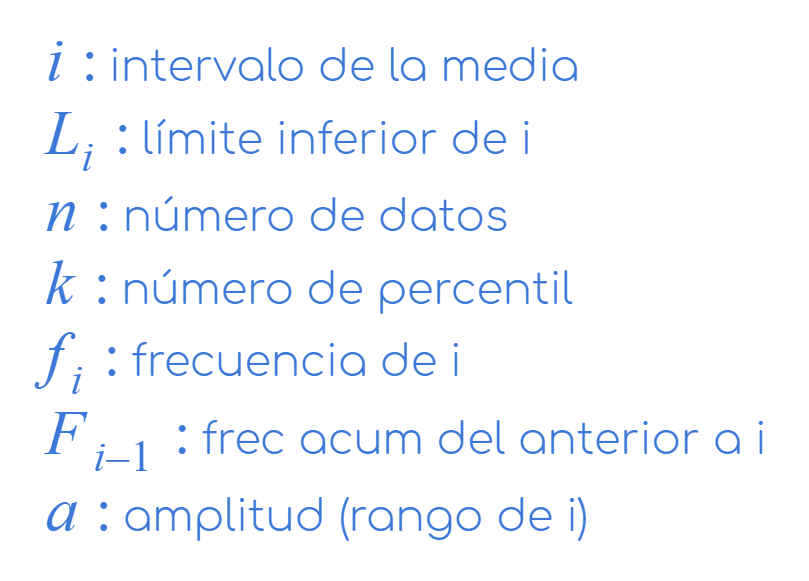
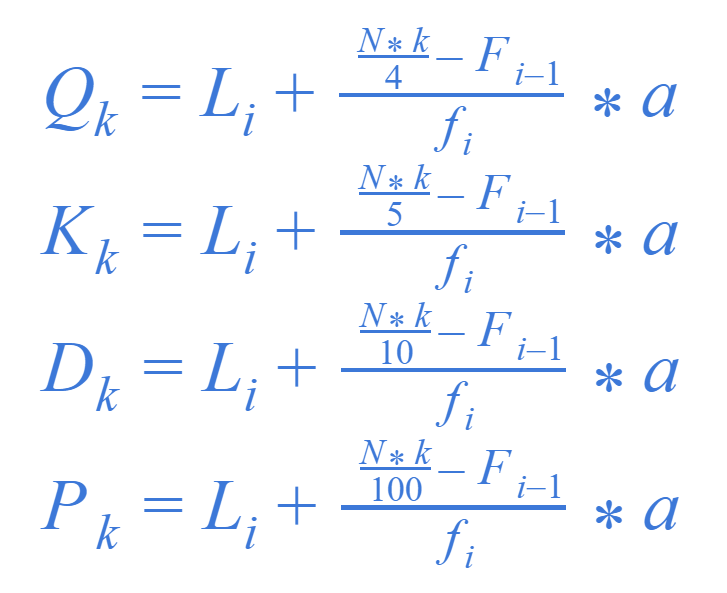
Formulas of Cuantiles DA

diff --git a/lib/src/pages/new_hp.dart b/lib/src/pages/new_hp.dart
@@ -520,16 +520,82 @@ class _NewHomePageState extends State<NewHomePage> {
                     ),
                   ],
                 ],
-                'Percentiles (DA)': [
-                  AssetImage('assets/img/mathformulas/perc.PNG'),
+                'Cuantiles (DA)': [
                   AssetImage('assets/img/mathformulas/pperc.PNG'),
+                  AssetImage('assets/img/mathformulas/params.png'),
                   <FormulaButtonArguments>[
                     FormulaButtonArguments(
-                      pageName: 'Percentil k',
+                      pageName: 'Cuartil',
                       params: {
                         Param(name: 'Li del intervalo de la Media'): 1.0,
                         Param(name: 'Número de Datos'): 1.0,
-                        Param(name: 'k'): 1.0,
+                        Param(name: 'k (1-3)'): 1.0,
+                        Param(name: 'f del intervalo de la Media'): 1.0,
+                        Param(name: 'f acum del intervalo anterior al de la Media'):
+                            1.0,
+                        Param(name: 'Amplitud del intervalo de la Media'): 1.0,
+                      },
+                      formula: (Map<Param, double> m) {
+                        double li = m.values.toList()[0];
+                        double n = m.values.toList()[1];
+                        double k = m.values.toList()[2];
+                        double fi = m.values.toList()[3];
+                        double fim1 = m.values.toList()[4];
+                        double a = m.values.toList()[5];
+
+                        return li + ((((n * k) / 4) - fim1) / fi) * a;
+                      },
+                    ),
+                    FormulaButtonArguments(
+                      pageName: 'Quintil',
+                      params: {
+                        Param(name: 'Li del intervalo de la Media'): 1.0,
+                        Param(name: 'Número de Datos'): 1.0,
+                        Param(name: 'k (1-4)'): 1.0,
+                        Param(name: 'f del intervalo de la Media'): 1.0,
+                        Param(name: 'f acum del intervalo anterior al de la Media'):
+                            1.0,
+                        Param(name: 'Amplitud del intervalo de la Media'): 1.0,
+                      },
+                      formula: (Map<Param, double> m) {
+                        double li = m.values.toList()[0];
+                        double n = m.values.toList()[1];
+                        double k = m.values.toList()[2];
+                        double fi = m.values.toList()[3];
+                        double fim1 = m.values.toList()[4];
+                        double a = m.values.toList()[5];
+
+                        return li + ((((n * k) / 5) - fim1) / fi) * a;
+                      },
+                    ),
+                    FormulaButtonArguments(
+                      pageName: 'Decil',
+                      params: {
+                        Param(name: 'Li del intervalo de la Media'): 1.0,
+                        Param(name: 'Número de Datos'): 1.0,
+                        Param(name: 'k (1-9)'): 1.0,
+                        Param(name: 'f del intervalo de la Media'): 1.0,
+                        Param(name: 'f acum del intervalo anterior al de la Media'):
+                            1.0,
+                        Param(name: 'Amplitud del intervalo de la Media'): 1.0,
+                      },
+                      formula: (Map<Param, double> m) {
+                        double li = m.values.toList()[0];
+                        double n = m.values.toList()[1];
+                        double k = m.values.toList()[2];
+                        double fi = m.values.toList()[3];
+                        double fim1 = m.values.toList()[4];
+                        double a = m.values.toList()[5];
+
+                        return li + ((((n * k) / 10) - fim1) / fi) * a;
+                      },
+                    ),
+                    FormulaButtonArguments(
+                      pageName: 'Percentil',
+                      params: {
+                        Param(name: 'Li del intervalo de la Media'): 1.0,
+                        Param(name: 'Número de Datos'): 1.0,
+                        Param(name: 'k (1-99)'): 1.0,
                         Param(name: 'f del intervalo de la Media'): 1.0,
                         Param(name: 'f acum del intervalo anterior al de la Media'):
                             1.0,
@@ -788,7 +854,7 @@ class _NewHomePageState extends State<NewHomePage> {
                   null,
                   <FormulaButtonArguments>[],
                 ],
-                'Cuadriláteros': [
+                'Paralelogramos': [
                   AssetImage('assets/img/mathformulas/cuadr.png'),
                   null,
                   <FormulaButtonArguments>[],
@@ -813,7 +879,7 @@ class _NewHomePageState extends State<NewHomePage> {
                   null,
                   <FormulaButtonArguments>[]
                 ],
-                'Equivalencia en Cuadriláteros': [
+                'Equivalencia en Paralelogramos': [
                   AssetImage('assets/img/mathformulas/equad.png'),
                   null,
                   <FormulaButtonArguments>[]

diff --git a/lib/src/pages/formula_page.dart b/lib/src/pages/formula_page.dart
@@ -61,16 +61,17 @@ class _FormulaPageState extends State<FormulaPage> {
           _createParams(content, pageColor),
           _result(content, pageColor, size),
           SizedBox(height: size * 20),
-          if (banner == null)
-            CircularProgressIndicator()
-          else
-            Container(
-              height: 100,
-              child: AdWidget(
-                ad: banner,
-              ),
-            )
+          if (banner == null) CircularProgressIndicator() else buildAd()
         ],
+      ),
+    );
+  }
+
+  Widget buildAd() {
+    return Container(
+      height: 100,
+      child: AdWidget(
+        ad: banner,
       ),
     );
   }
@@ -78,6 +79,7 @@ class _FormulaPageState extends State<FormulaPage> {
   Widget _createParams(FormulaButtonArguments args, Color pageColor) {
     List<Widget> _params = [SizedBox(height: 20.0)];
     double size = MediaQuery.of(context).size.aspectRatio;
+    double w = MediaQuery.of(context).size.width;
 
     args.params.forEach(
       (key, value) {
@@ -85,7 +87,7 @@ class _FormulaPageState extends State<FormulaPage> {
           child: Column(
             children: [
               Container(
-                width: size * 550,
+                width: w * 0.8,
                 child: TextField(
                   keyboardType: TextInputType.number,
                   decoration: InputDecoration(
@@ -112,7 +114,7 @@ class _FormulaPageState extends State<FormulaPage> {
               ),
               if (key.med != null)
                 Container(
-                  width: size * 550,
+                  width: w * 0.8,
                   height: size * 100,
                   child: DropdownButton(
                     items: _items(key.med, size),
